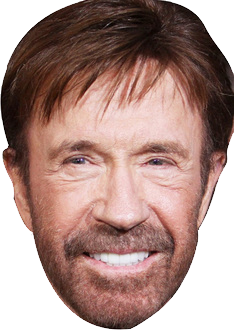
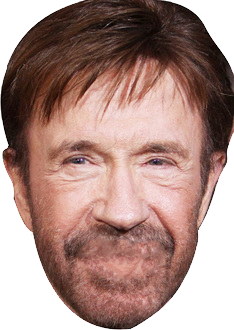
chuck talks, voice update, mouth movement, better jokecard ui, buttons stacked upon each other (gonna fix that)

Changed region(s): [[0.3291, 0.7273, 0.7179, 0.8485]]

diff --git a/src/components/organisms/JokeDisplay.js b/src/components/organisms/JokeDisplay.js
@@ -7,37 +7,47 @@ import { Button } from "@mui/material";
 
 import "../../styles/General.css";
 import "../../styles/Buttons.css";
-import "../../styles/Joke.css"
+import "../../styles/Joke.css";
 
 function TalkingHead({ isSpeaking }) {
   const meshRef = useRef();
   const mouthRef = useRef();
-  const texture = useLoader(TextureLoader, "/chuck_face.png"); // Použijeme texturu Chuckovy tváře
+  
+  const texture = useLoader(TextureLoader, "/chuck_face.png");
+  const mouthTexture = useLoader(TextureLoader, "/chuck_face_mouth.png");
 
   useFrame(() => {
-    if (isSpeaking && mouthRef.current) {
-      mouthRef.current.scale.y = 0.5 + Math.sin(Date.now() * 0.01) * 0.3; // Simulace otevírání pusy
-    } else if (mouthRef.current) {
-      mouthRef.current.scale.y = 0.1; // Zavřená pusa
+    if (meshRef.current) {
+      meshRef.current.rotation.y += 0.00; // Rotace kolem osy Y
+    }
+
+    if (mouthRef.current) {
+      if (isSpeaking) {
+        mouthRef.current.scale.y = 0.3 + Math.abs(Math.sin(Date.now() * 0.02)) * 0.5; // Animace pusy
+      } else {
+        mouthRef.current.scale.y = 0.5; // Zavřená pusa
+      }
     }
   });
 
   return (
     <group ref={meshRef} position={[0, 1, 0]}>
-      {}
+      {/* Hlava */}
       <mesh>
         <sphereGeometry args={[2, 32, 32]} />
         <meshStandardMaterial map={texture} />
       </mesh>
 
-      {/* Ústa */}
-      <mesh ref={mouthRef} position={[0, -0.5, 0.9]}>
-        <cylinderGeometry args={[0.2, 0.2, 0.05, 32]} />
-        <meshStandardMaterial color="black" />
+      {/* Pusa s texturou */}
+      <mesh ref={mouthRef} position={[0.9, -1.5, 0.2]}>
+        <cylinderGeometry args={[0.8, 0.4, 0.5, 32]} />
+        <meshStandardMaterial map={mouthTexture} transparent={true} />
       </mesh>
     </group>
   );
 }
+
+
 
 const JokeDisplay = () => {
   const joke = useSelector((state) => state.jokes.joke);
@@ -62,7 +72,7 @@ const JokeDisplay = () => {
     if (voices.length === 0) return;
 
     const utterance = new SpeechSynthesisUtterance(joke.value);
-    utterance.voice = voices.find((v) => v.lang === "en-US") || voices[0];
+    utterance.voice = voices.find((v) => v.name === "Google UK English Name") || voices[0];
 
     // Když začne mluvit
     utterance.onstart = () => setIsSpeaking(true);
@@ -75,25 +85,23 @@ const JokeDisplay = () => {
   };
 
   return (
-    <div class="joke-canvas">
+    <div className="joke-canvas">
       <Canvas>
-        <ambientLight intensity={0.5} />
+        <ambientLight intensity={0.8} />
         <pointLight position={[5, 5, 5]} />
         <TalkingHead isSpeaking={isSpeaking} />
         {joke && (
-          <Html position={[0, 2, 0]}>
-            <div class="joke-card">
-              {joke.value}
-            </div>
+          <Html position={[-3.5, -1.5, 0]}>
+            <div className="joke-card">{joke.value}</div>
           </Html>
         )}
       </Canvas>
 
       {joke && (
-        <div class="button-container">
-        <Button class="read-joke" onClick={speakJoke}>
-          📢 Přečíst vtip
-        </Button>
+        <div className="button-container">
+          <Button className="read-joke" onClick={speakJoke}>
+            📢 Přečíst vtip
+          </Button>
         </div>
       )}
     </div>

diff --git a/src/index.css b/src/index.css
@@ -4,7 +4,7 @@ body {
     'Ubuntu', 'Cantarell', 'Fira Sans', 'Droid Sans', 'Helvetica Neue',
     sans-serif;
   -webkit-font-smoothing: antialiased;
-  -moz-osx-font-smoothing: grayscale;
+  -moz-osx-font-smoothing: grayscale;;
 }
 
 code {

diff --git a/src/styles/Buttons.css b/src/styles/Buttons.css
@@ -1,4 +1,5 @@
 .button-container {
+    padding-top: 4rem;
     display: flex;
     justify-content: center;
     gap: 1rem;
